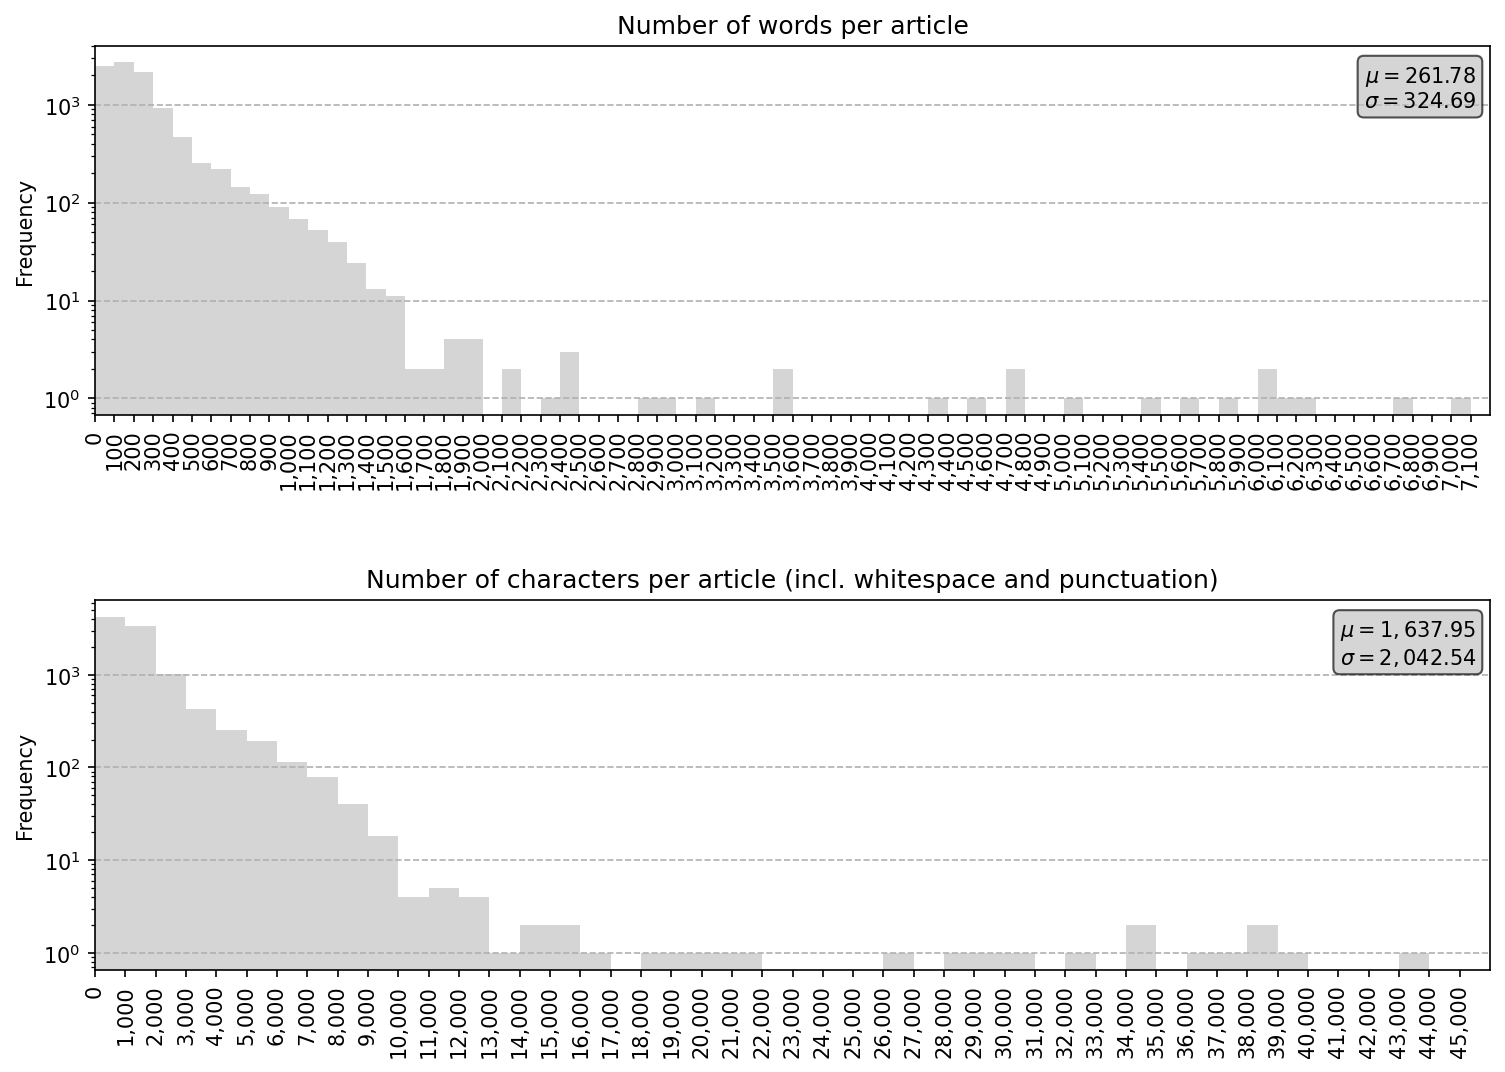
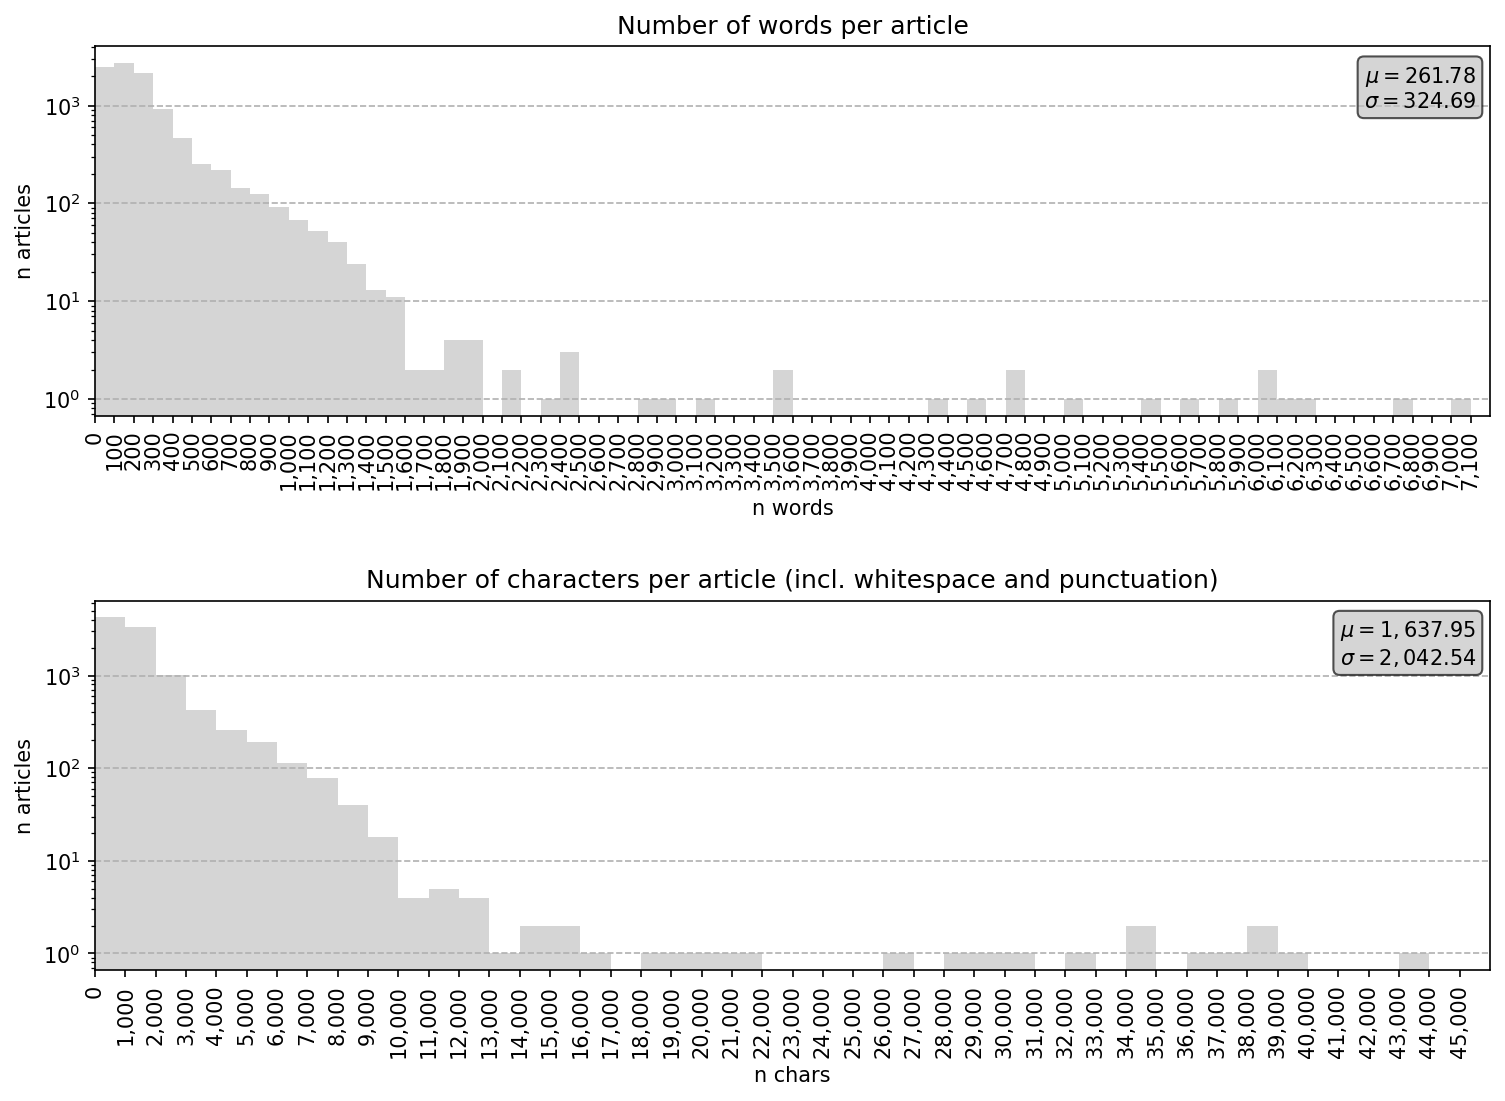
update axis labels

diff --git a/nklm/visualize/word_and_char_lengths.py b/nklm/visualize/word_and_char_lengths.py
@@ -115,6 +115,8 @@ def plot(lengths: pd.DataFrame, output_directory: Path) -> None:
         stats_str = '\n'.join([fr'$\mu={mu:,.2f}$', fr'$\sigma={sigma:,.2f}$'])
         ax.text(0.99, 0.95, stats_str, transform=ax.transAxes, ha='right', va='top', bbox=bbox)
         ax.grid(axis='y', linestyle='--')
+        ax.set_xlabel('n ' + column[1:])
+        ax.set_ylabel('n articles')
         ax.set_xticks(bins)
         ax.set_xticklabels(ax.get_xticks(), rotation=90)
         ax.set_xlim(0, bins[-1] + bin_sizes[column])
